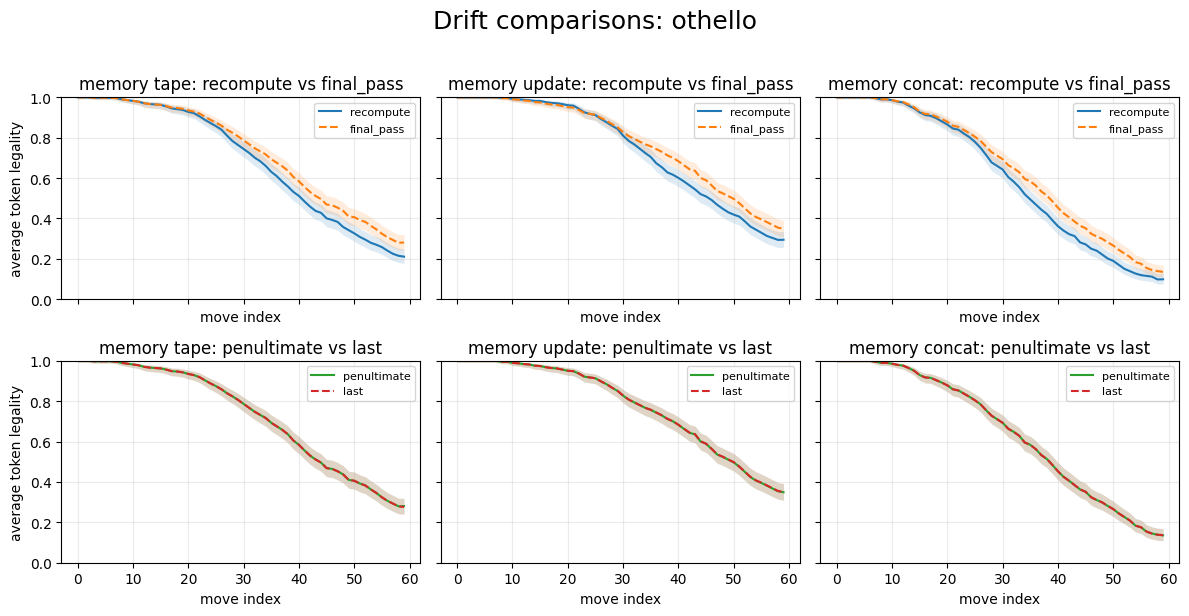
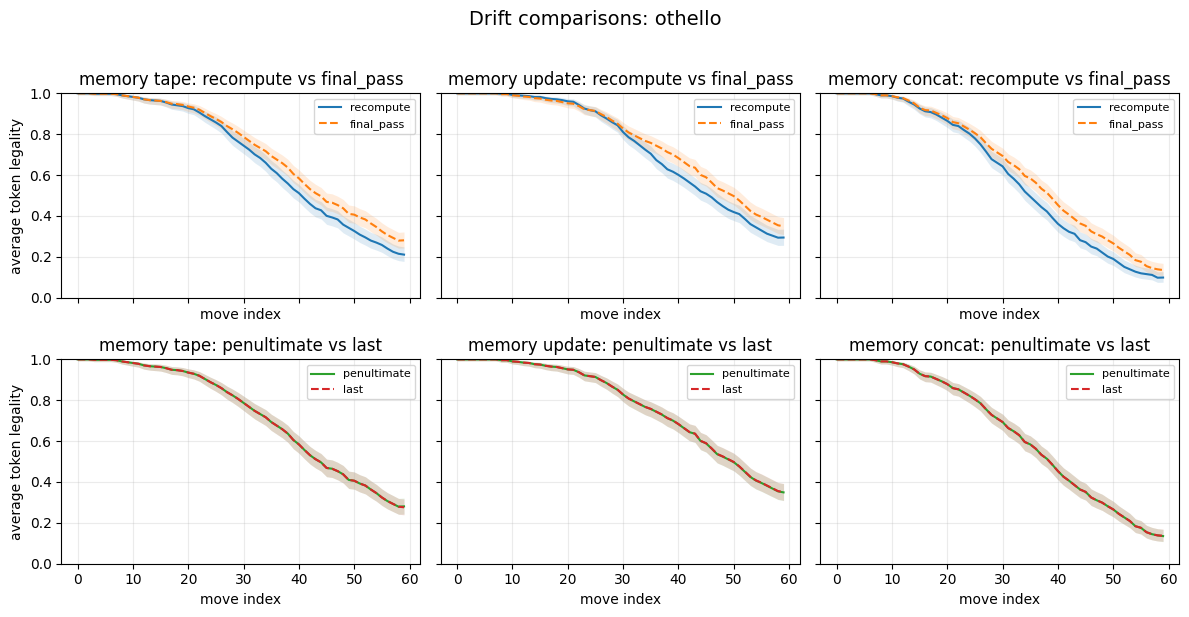
new readme

diff --git a/README.md b/README.md
@@ -1,5 +1,5 @@
 # Multi-Pass Transformer Training
-This project explores a way to train transformers for recurrent-style inference without training them as recurrent models over token time. The models are trained with multiple passes over the same token-sequence. Earlier passes write per-token memory states; later passes read shifted versions of those memories, giving each token access to deep-layer information from previous token positions while preserving parallel training.
+This project explores a way to train transformers for recurrent-style inference without training them as token time recurrent models. The key idea is to train transformers with multiple passes over the same token-sequence. Earlier passes write per-token memory states; later passes read shifted versions of those memories, giving each token access to deep-layer information from previous token positions while preserving parallel training.
 
 ## A Motivating Problem: State Tracking
 Transformers have a notoriously limited ability to track state (see for example [Li25](https://arxiv.org/abs/2503.02854)), which is why this kind of task is featured often in benchmarks with hard-to-solve tasks for LLMS like BBH (see [Suzgun22](https://arxiv.org/abs/2210.09261)). So, we pick four BBH tasks and check if a small transformer model can learn to repeatedly update a symbolic state.
@@ -124,14 +124,15 @@ Okay, but the state-tracking tasks introduced earlier had only a few tokens to p
 
 Yes, partly. The BBH curriculum tasks isolate whether the model can learn repeated state updates without trace supervision, but final-answer-only supervision does not stress test final-pass generation over a long suffix. The mismatch problem only becomes unavoidable when the model has to keep generating after the prompt and repeatedly feed its own approximate memory cache forward.
 
-That is why the repo also includes longer-range trace tasks. These are fixed-trace generation problems where the model must emit a long legal suffix after the prompt, so recompute-versus-final-pass evaluation becomes a real test of cache mismatch and recurrent stability. The active trace tasks are `random_graph_walk`, where the next legal transition depends on the latent state, and `othello`, where legality depends on the evolving board state.
+That is why the repo also includes longer-range trace tasks. These are fixed-trace generation problems where the model must emit a long legal suffix after the prompt, so recompute-versus-final-pass evaluation becomes a real test of cache mismatch and recurrent stability. For some time I have been interested in the world-model of [OthelloGPT](https://arxiv.org/pdf/2309.00941) which is an 8 layer GPT 2 style model trained to predict legel sequences of [othello](https://www.eothello.com/) moves. Since move legality depends on the evolving board state, the model will need to learn an implicit kind of board-state-tracking. Since (the vast majority) othello games are sequences of 60 moves I will count it as a long-range state tracking task to generate legal sequences othello moves. 
 
-<p style="color: #b00020;"><strong>TODO:</strong> Replace this with trace-task results. There should be three plots; first is training loss, second is final-pass sequence-legality, and third is final-pass average streak of legal actions. Hopefully we see that multi-pass models can generate longer sequences of legal moves than the baseline.</p>
+![](figures/trace_plot_figs.png "trace")
 
-### Drift
+As seen in the plot above all the multi-pass models outperform the transformer by a large margin. It is worth noting that all the models have around 1 million parameters, which is about $20$ times less than OthelloGPT (that learned the task with $>1\%$ margin of error). So, it seems that the multipass-models are able to generate reasonably accurately, but we need to compare the final_pass generation mode with the recomputation mode to get a clearer picture. So, we generate with both recomputation and final_pass modes and plot average accuracy at token-index $x$: 
 
-<p style="color: #b00020;"><strong>TODO:</strong> Replace this with drift experimental results. The intended drift experiment is post-training only: load finished trace checkpoints and compare recompute versus final-pass legality and accuracy as a function of move index.</p>
+![](figures/drift_plots_othello.png "drift")
 
+Somewhat surprisingly we see that the final_pass generation mode outperforms the recomputation mode! The only explanation I can think of for this is that the multipass models have learned a truly recurrent path of computation, and so fully recurrent inference/generation for state-tracking just works better. I also found that using $K$ or $K-1$ pass context-memory did not make any difference.
 
 ## Multi-pass Architectures
 The following architectures explore some different ways of passing on the memories between passes. They all follow the abstract multi-pass training and inference-time methods (see the parent-class `MultiPassTransformer` in the codebase). 